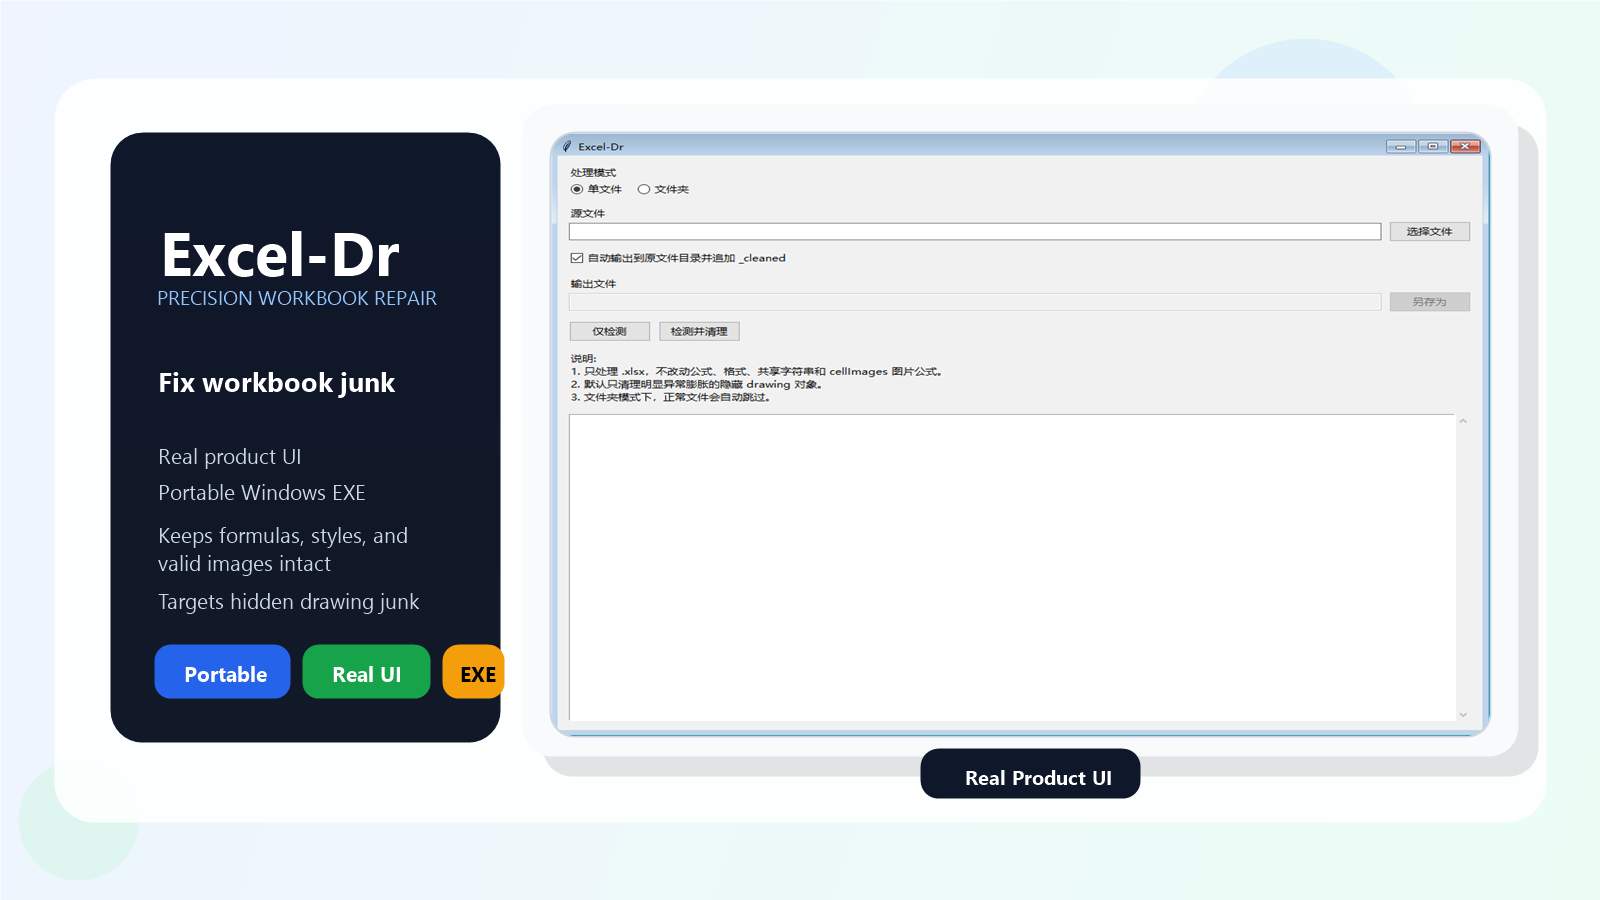
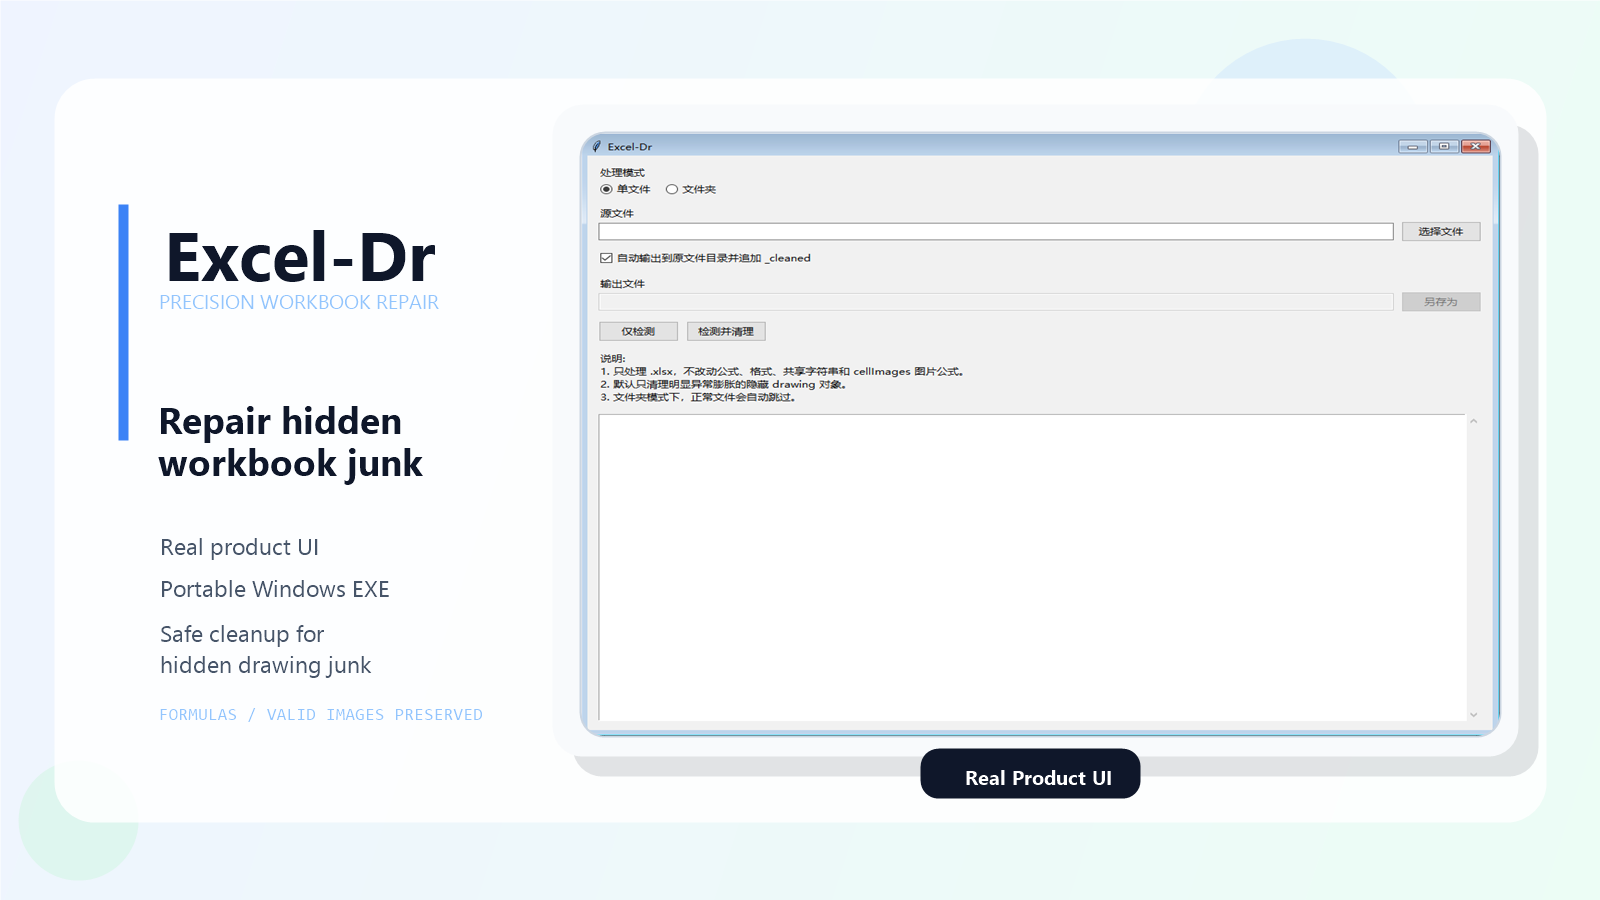
Refine hero typography and center README header

Changed region(s): [[0.0625, 0.1244, 0.3125, 0.84], [0.3438, 0.1244, 0.5938, 0.8711], [0.8438, 0.1556, 0.9375, 0.8089]]

diff --git a/README.md b/README.md
@@ -1,9 +1,11 @@
-# Excel-Dr
+<h1 align="center">Excel-Dr</h1>
 
-[![Release](https://img.shields.io/github/v/release/LCbeijing/Excel-Dr?display_name=tag&style=flat-square)](https://github.com/LCbeijing/Excel-Dr/releases)
-[![License](https://img.shields.io/github/license/LCbeijing/Excel-Dr?style=flat-square)](./LICENSE)
-[![Platform](https://img.shields.io/badge/platform-Windows-0F172A?style=flat-square)](https://github.com/LCbeijing/Excel-Dr)
-[![Format](https://img.shields.io/badge/format-.xlsx-16A34A?style=flat-square)](https://github.com/LCbeijing/Excel-Dr)
+<p align="center">
+  <a href="https://github.com/LCbeijing/Excel-Dr/releases"><img alt="Release" src="https://img.shields.io/github/v/release/LCbeijing/Excel-Dr?display_name=tag&style=flat-square"></a>
+  <a href="./LICENSE"><img alt="License" src="https://img.shields.io/github/license/LCbeijing/Excel-Dr?style=flat-square"></a>
+  <a href="https://github.com/LCbeijing/Excel-Dr"><img alt="Platform" src="https://img.shields.io/badge/platform-Windows-0F172A?style=flat-square"></a>
+  <a href="https://github.com/LCbeijing/Excel-Dr"><img alt="Format" src="https://img.shields.io/badge/format-.xlsx-16A34A?style=flat-square"></a>
+</p>
 
 <p align="center">
   <strong>一款专门修复 Excel / WPS 报表隐藏垃圾数据问题的便携工具。</strong>
